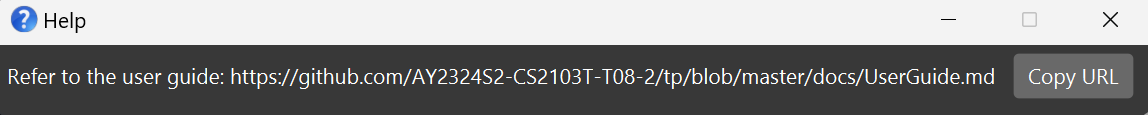
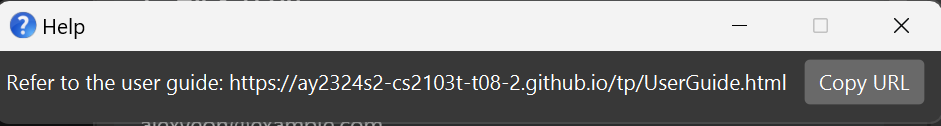
fix HelpMessage

diff --git a/src/main/java/seedu/address/ui/HelpWindow.java b/src/main/java/seedu/address/ui/HelpWindow.java
@@ -16,7 +16,7 @@ import seedu.address.commons.core.LogsCenter;
 public class HelpWindow extends UiPart<Stage> {
 
     public static final String USERGUIDE_URL =
-            "https://github.com/AY2324S2-CS2103T-T08-2/tp/blob/master/docs/UserGuide.md";
+            "https://ay2324s2-cs2103t-t08-2.github.io/tp/UserGuide.html";
     public static final String HELP_MESSAGE = "Refer to the user guide: " + USERGUIDE_URL;
 
     private static final Logger logger = LogsCenter.getLogger(HelpWindow.class);
